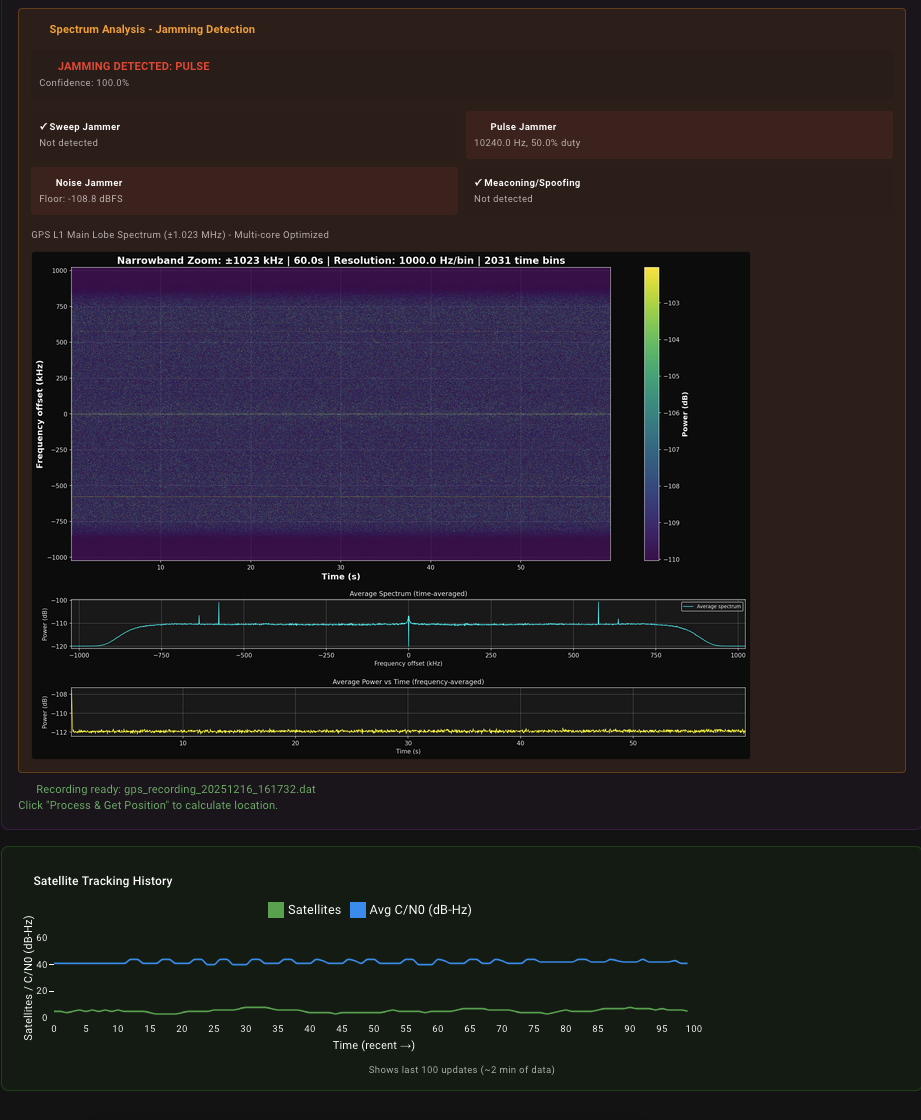
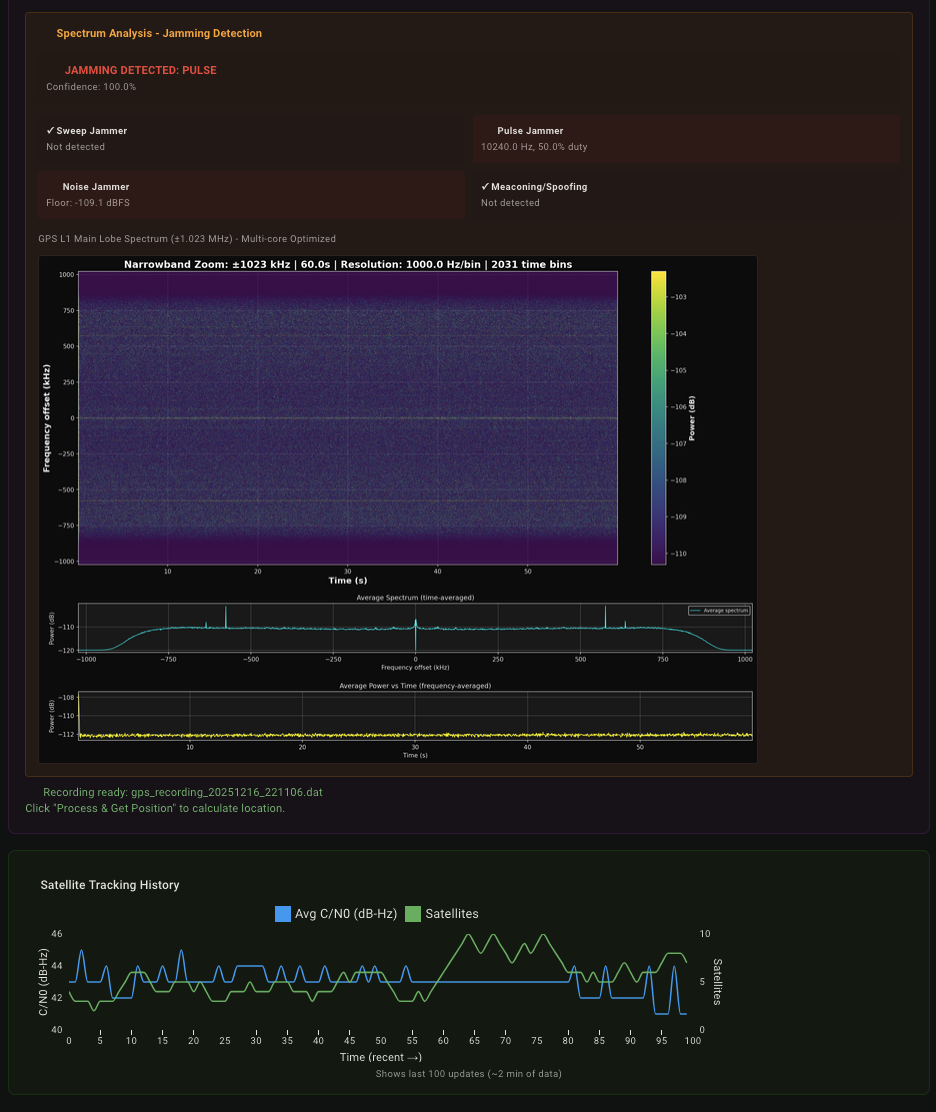
improved diagram

diff --git a/src/pages/SdrPlayDecoder.tsx b/src/pages/SdrPlayDecoder.tsx
@@ -675,16 +675,17 @@ return (
                       setJammingStatus(result.jamming);
                     }
 
-                    // Update satellite history for chart
+                    // Update satellite history for chart and track locked/lost satellites
                     setSatelliteHistory(prevHistory => {
-                      const satCount = result.satellites.length;
-                      const avgCN0 = satCount > 0
-                        ? result.satellites.reduce((sum: number, sat: any) => sum + (sat.cn0 || 0), 0) / satCount
+                      const trackingSats = result.satellites.filter((s: any) => s.state === 'TRACKING');
+                      const trackingCount = trackingSats.length;
+                      const avgCN0 = trackingCount > 0
+                        ? trackingSats.reduce((sum: number, sat: any) => sum + (sat.cn0 || 0), 0) / trackingCount
                         : 0;
 
                       const newPoint = {
                         time: Date.now(),
-                        count: satCount,
+                        count: trackingCount,
                         avgCN0: avgCN0
                       };
 
@@ -1279,29 +1280,42 @@ return (
               📈 Satellite Tracking History
             </Typography>
             <LineChart
+              skipAnimation={true}
               width={900}
               height={200}
               series={[
                 {
-                  data: satelliteHistory.slice().reverse().map(p => p.count),
-                  label: 'Satellites',
-                  color: '#4CAF50',
-                  showMark: false
-                },
-                {
                   data: satelliteHistory.slice().reverse().map(p => p.avgCN0),
                   label: 'Avg C/N0 (dB-Hz)',
                   color: '#2196F3',
-                  showMark: false
+                  showMark: false,
+                  yAxisKey: 'leftAxis'
+                },
+                {
+                  data: satelliteHistory.slice().reverse().map(p => p.count),
+                  label: 'Satellites',
+                  color: '#4CAF50',
+                  showMark: false,
+                  yAxisKey: 'rightAxis'
                 }
               ]}
               xAxis={[{
                 data: satelliteHistory.slice().reverse().map((_, i) => i),
                 label: 'Time (recent →)'
               }]}
-              yAxis={[{
-                label: 'Satellites / C/N0 (dB-Hz)'
-              }]}
+              yAxis={[
+                {
+                  id: 'leftAxis',
+                  scaleType: 'linear',
+                  label: 'C/N0 (dB-Hz)'
+                },
+                {
+                  id: 'rightAxis',
+                  scaleType: 'linear',
+                  label: 'Satellites'
+                }
+              ]}
+              rightAxis="rightAxis"
               slotProps={{
                 legend: {
                   direction: 'row',
@@ -1309,10 +1323,12 @@ return (
                   padding: 0
                 }
               }}
+              margin={{ left: 60, right: 60, top: 40, bottom: 40 }}
             />
             <Typography variant="caption" sx={{ display: 'block', marginTop: '5px', color: 'text.secondary', textAlign: 'center' }}>
               Shows last {satelliteHistory.length} updates (~{Math.round(satelliteHistory.length / 60)} min of data)
             </Typography>
+
           </Box>
         )}
       </Box>
